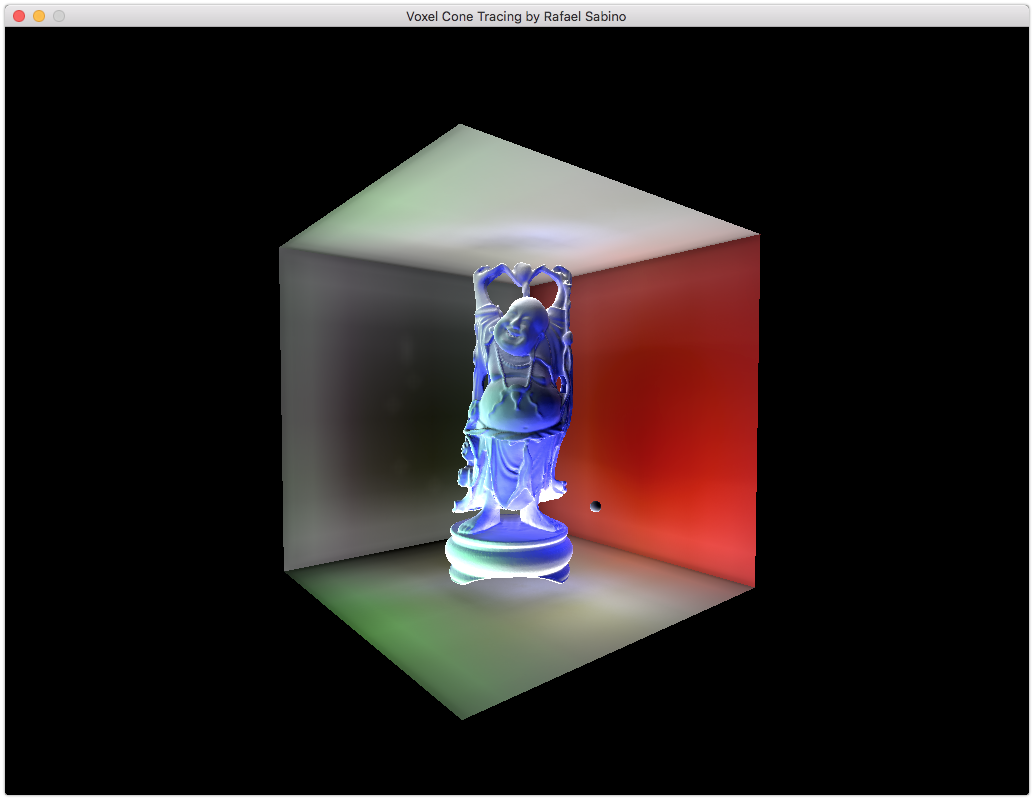
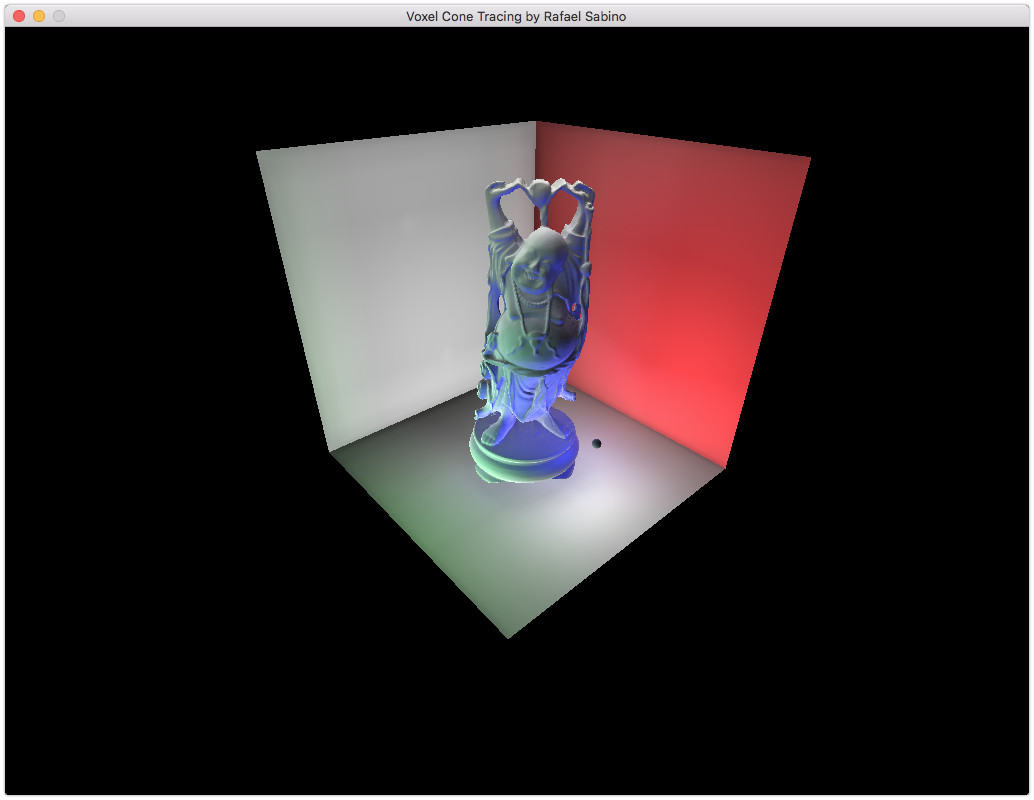
Bug Fix: Indirect Illumination Was Negative At Times
I forgot to clamp a dot product, this caused the image to darken too much in certain areas.  The indirect illumination was taking energy away instead of adding in these cases.

Changed region(s): [[0.2476, 0.125, 0.8046, 0.9062]]

diff --git a/Source/Graphic/RenderTarget/VoxelConeTracingRT.cpp b/Source/Graphic/RenderTarget/VoxelConeTracingRT.cpp
@@ -196,7 +196,7 @@ void VoxelConeTracingRT::setCameraParameters(ShaderParameter::ShaderParamsGroup&
 void VoxelConeTracingRT::setConeApertureAndVariances(ShaderParameter::ShaderParamsGroup& params)
 {
     static const float PI = 3.14159265359f;
-    static float apertureInDegrees = 3.0f;
+    static float apertureInDegrees = .50f;
     
     float radians = apertureInDegrees * (PI/180.0f);
     float initialApertureInRadians = radians;

diff --git a/Source/Graphic/RenderTarget/VoxelizeRT.cpp b/Source/Graphic/RenderTarget/VoxelizeRT.cpp
@@ -112,6 +112,7 @@ void VoxelizeRT::initDepthPeelingBuffers(Texture::Dimensions& dimensions, Textur
     initDepthBuffer(3, dimensions, properties);
     initDepthBuffer(4, dimensions, properties);
     initDepthBuffer(5, dimensions, properties);
+    initDepthBuffer(6, dimensions, properties);
 }
 
 void VoxelizeRT::voxelize(Scene& renderScene)

diff --git a/Source/Graphic/RenderTarget/VoxelizeRT.h b/Source/Graphic/RenderTarget/VoxelizeRT.h
@@ -84,5 +84,5 @@ private:
     std::vector< std::shared_ptr<Texture3D> > albedoMipMaps;
     std::vector< std::shared_ptr<Texture3D> > normalMipMaps;
     
-    std::array<std::shared_ptr<FBO_2D>, 6> depthFBOs {nullptr, nullptr, nullptr, nullptr};
+    std::array<std::shared_ptr<FBO_2D>, 7> depthFBOs {nullptr, nullptr, nullptr, nullptr};
 };
